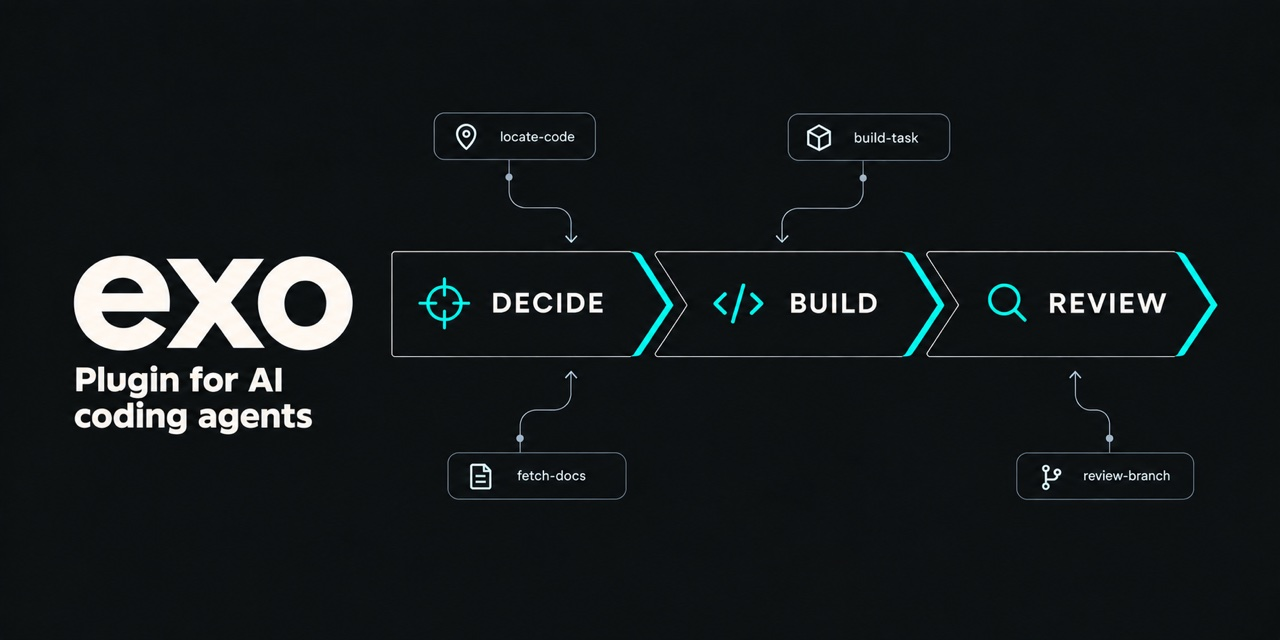
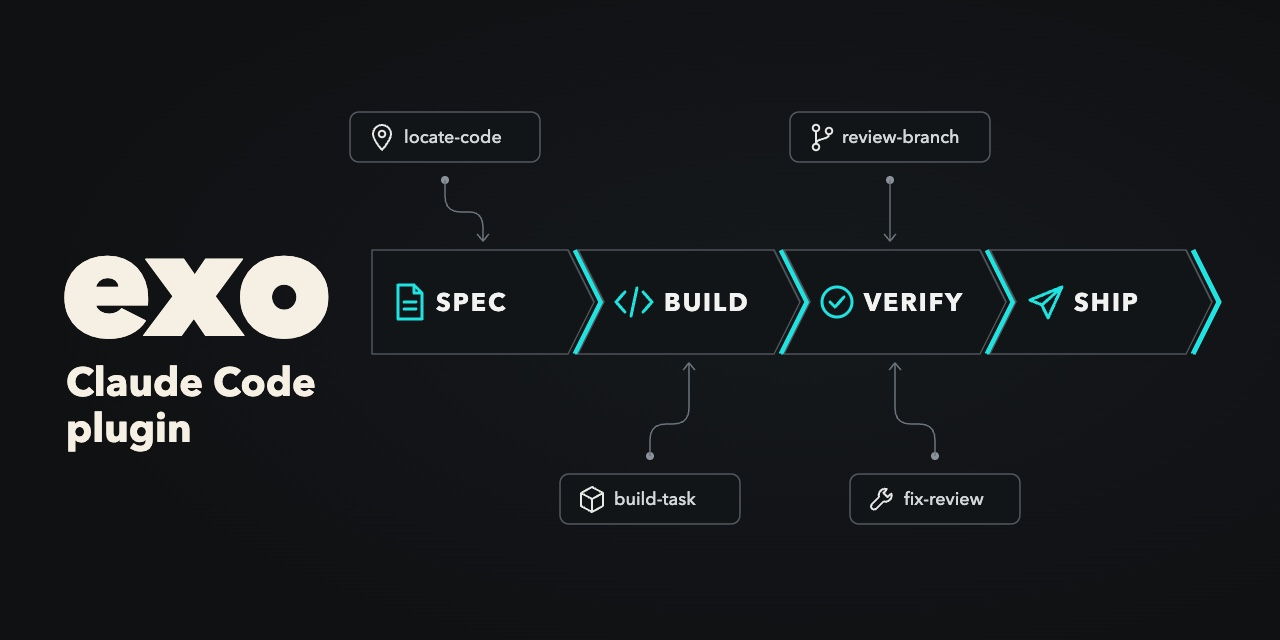
docs(readme): rebuild the social preview with four stages

diff --git a/assets/social-preview.html b/assets/social-preview.html
@@ -1,0 +1,122 @@
+<!doctype html>
+<html lang="en">
+<head>
+<meta charset="utf-8">
+<title>exo social preview</title>
+<!-- Source of assets/social-preview.jpg. Render at 1280x640:
+     "/Applications/Google Chrome.app/Contents/MacOS/Google Chrome" --headless --screenshot=preview.png --window-size=1280,640 --hide-scrollbars file://<this file>
+     sips -s format jpeg -s formatOptions 90 preview.png --out assets/social-preview.jpg -->
+<style>
+  html, body { margin: 0; padding: 0; background: #0f1113; }
+  svg { display: block; }
+  .sans { font-family: "Avenir Next", Avenir, Futura, "Century Gothic", "Helvetica Neue", Arial, sans-serif; }
+  .wordmark { font-weight: 800; font-size: 146px; fill: #f6efe3; letter-spacing: -3px; }
+  .tagline { font-weight: 700; font-size: 40px; fill: #f6efe3; }
+  .stage { font-weight: 700; font-size: 25px; fill: #f2f2ef; letter-spacing: 2px; }
+  .chip { font-weight: 500; font-size: 18px; fill: #d4d7da; }
+  .box { fill: #121518; stroke: #4d5359; stroke-width: 1.5; }
+  .edge { fill: none; stroke: #1fe3e0; stroke-width: 5; stroke-linejoin: miter; }
+  .icon { fill: none; stroke: #1fe3e0; stroke-width: 3; stroke-linecap: round; stroke-linejoin: round; }
+  .chipbox { fill: #121518; stroke: #545a61; stroke-width: 1.5; }
+  .chipicon { fill: none; stroke: #e8e9e6; stroke-width: 2; stroke-linecap: round; stroke-linejoin: round; }
+  .wire { fill: none; stroke: #6b737b; stroke-width: 1.5; }
+  .dot { fill: #8a939c; }
+</style>
+</head>
+<body>
+<svg width="1280" height="640" viewBox="0 0 1280 640" class="sans" role="img" aria-label="exo: Claude Code plugin. Spec, build, verify, ship.">
+  <defs>
+    <radialGradient id="glow" cx="0.62" cy="0.47" r="0.6">
+      <stop offset="0" stop-color="#16191c"/>
+      <stop offset="1" stop-color="#0f1113"/>
+    </radialGradient>
+  </defs>
+  <rect width="1280" height="640" fill="url(#glow)"/>
+
+  <!-- wordmark and tagline -->
+  <text x="60" y="336" class="wordmark">exo</text>
+  <text x="66" y="396" class="tagline">Claude Code</text>
+  <text x="66" y="442" class="tagline">plugin</text>
+
+  <!-- stages: x0 372, width 196, point depth 26, gap 10 -->
+  <g>
+    <polygon class="box" points="372,250 568,250 594,302 568,354 372,354"/>
+    <polyline class="edge" points="575,250 601,302 575,354"/>
+    <!-- Spec: document with lines -->
+    <g class="icon" transform="translate(394,285)">
+      <path d="M4 0 H20 L28 8 V34 H4 Z"/><path d="M20 0 V8 H28"/><path d="M10 17 H22 M10 24 H22"/>
+    </g>
+    <text x="436" y="311" class="stage">SPEC</text>
+  </g>
+  <g>
+    <polygon class="box" points="578,250 774,250 800,302 774,354 578,354 604,302"/>
+    <polyline class="edge" points="781,250 807,302 781,354"/>
+    <!-- Build: code brackets -->
+    <g class="icon" transform="translate(616,286)">
+      <path d="M9 6 L0 16 L9 26 M27 6 L36 16 L27 26 M21 2 L15 30"/>
+    </g>
+    <text x="664" y="311" class="stage">BUILD</text>
+  </g>
+  <g>
+    <polygon class="box" points="784,250 980,250 1006,302 980,354 784,354 810,302"/>
+    <polyline class="edge" points="987,250 1013,302 987,354"/>
+    <!-- Verify: check in circle -->
+    <g class="icon" transform="translate(820,285)">
+      <circle cx="17" cy="17" r="15"/><path d="M10 17 L15 22 L24 12"/>
+    </g>
+    <text x="864" y="311" class="stage">VERIFY</text>
+  </g>
+  <g>
+    <polygon class="box" points="990,250 1186,250 1212,302 1186,354 990,354 1016,302"/>
+    <polyline class="edge" points="1193,250 1219,302 1193,354"/>
+    <!-- Ship: paper plane -->
+    <g class="icon" transform="translate(1028,285)">
+      <path d="M34 2 L2 15 L14 20 L34 2 L20 33 L14 20"/>
+    </g>
+    <text x="1074" y="311" class="stage">SHIP</text>
+  </g>
+
+  <!-- satellite chips: agents each stage dispatches -->
+  <!-- locate-code -> Spec -->
+  <rect class="chipbox" x="350" y="112" width="190" height="50" rx="9"/>
+  <g class="chipicon" transform="translate(370,124)">
+    <path d="M12 26 C12 26 3 16 3 10 A9 9 0 0 1 21 10 C21 16 12 26 12 26 Z"/><circle cx="12" cy="10" r="3.2"/>
+  </g>
+  <text x="404" y="143" class="chip">locate-code</text>
+  <circle class="dot" cx="445" cy="180" r="4"/>
+  <path class="wire" d="M445 180 V196 Q445 212 461 212 H470 Q483 212 483 228 V240"/>
+  <path class="wire" d="M477 234 L483 241 L489 234"/>
+
+  <!-- review-branch -> Verify -->
+  <rect class="chipbox" x="790" y="112" width="200" height="50" rx="9"/>
+  <g class="chipicon" transform="translate(810,124)">
+    <circle cx="6" cy="4" r="3.2"/><circle cx="6" cy="23" r="3.2"/><circle cx="19" cy="7" r="3.2"/>
+    <path d="M6 7.5 V19.5 M19 10.5 C19 16 6 14 6 19.5"/>
+  </g>
+  <text x="842" y="143" class="chip">review-branch</text>
+  <circle class="dot" cx="890" cy="180" r="4"/>
+  <path class="wire" d="M890 180 V240"/>
+  <path class="wire" d="M884 234 L890 241 L896 234"/>
+
+  <!-- build-task -> Build -->
+  <rect class="chipbox" x="560" y="474" width="180" height="50" rx="9"/>
+  <g class="chipicon" transform="translate(580,486)">
+    <path d="M12 1 L23 7 V20 L12 26 L1 20 V7 Z"/><path d="M1 7 L12 13 L23 7 M12 13 V26"/>
+  </g>
+  <text x="614" y="505" class="chip">build-task</text>
+  <circle class="dot" cx="650" cy="456" r="4"/>
+  <path class="wire" d="M650 456 V440 Q650 424 666 424 H673 Q689 424 689 408 V364"/>
+  <path class="wire" d="M683 370 L689 363 L695 370"/>
+
+  <!-- fix-review -> Verify -->
+  <rect class="chipbox" x="850" y="474" width="170" height="50" rx="9"/>
+  <g class="chipicon" transform="translate(870,486)">
+    <path d="M17 3 A6.5 6.5 0 0 0 9 11 L2 18 A3 3 0 0 0 6.5 22.5 L13.5 15.5 A6.5 6.5 0 0 0 21.5 7.5 L17.5 11 L13.5 7 Z"/>
+  </g>
+  <text x="904" y="505" class="chip">fix-review</text>
+  <circle class="dot" cx="935" cy="456" r="4"/>
+  <path class="wire" d="M935 456 V440 Q935 424 919 424 H911 Q895 424 895 408 V364"/>
+  <path class="wire" d="M889 370 L895 363 L901 370"/>
+</svg>
+</body>
+</html>

diff --git a/README.md b/README.md
@@ -1,5 +1,5 @@
 <p align="center">
-  <img src="assets/social-preview.jpg" alt="exo: plugin for AI coding agents. Decide, build, review.">
+  <img src="assets/social-preview.jpg" alt="exo: Claude Code plugin. Spec, build, verify, ship.">
 </p>
 
 # exo
